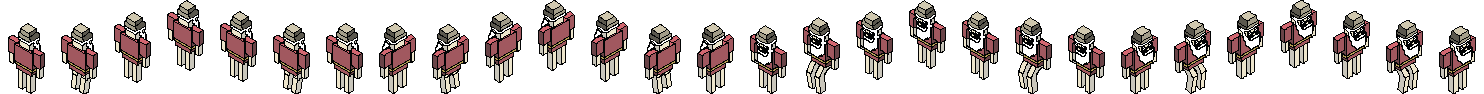
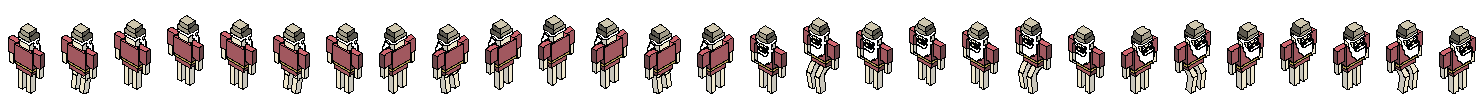
:sparkles: Player animation + new fade out

diff --git a/src/level.js b/src/level.js
@@ -21,13 +21,7 @@ class Level extends Phaser.Scene {
         this.gui = null;
         this.popup = null;
 
-        // Zoom
-        this.zoomState = 0;
-        this.ZKey = null;
-        this.canZoom = true;
-
         // States
-        this.dark = null;
         this.TABKey = null;
         this.RKey = null;
         this.SPACEKey = null;
@@ -61,7 +55,6 @@ class Level extends Phaser.Scene {
         this.gui = new GUI(this, this.map);
         this.gui.update(this.player);
         this.popup = new Popup(this);
-        this.dark = this.add.rectangle(0, 0, this.map.width * 200, this.map.height * 200, 0x000000).setAlpha(0).setDepth(2000);
 
         // Keyboard
         this.cursors = this.input.keyboard.createCursorKeys();
@@ -95,27 +88,28 @@ class Level extends Phaser.Scene {
                 // Edit stats
                 if (this.TABKey.isDown && this.player.block == 0) {
                     this.gui.selected = 0;
-                    this.dark.setDepth(1499);
-                    this.fadeTo([this.dark, this.gui.r1], 0.25, STATES.STATS);
+                    this.cameras.main.fadeOut(350, 100, 100, 100);
+                    this.fadeTo(this.gui.r1, 0.25, STATES.STATS);
                 }
                 else if (Phaser.Input.Keyboard.JustDown(this.RKey) && this.player.canSacrifice()) {
                     this.gui.selected = 0;
-                    this.dark.setDepth(1499);
                     this.sacrifice();
-                    this.fadeTo([this.dark, this.gui.r1], 0.25, STATES.STATS);
+                    this.cameras.main.fadeOut(350, 100, 100, 100);
+                    this.fadeTo(this.gui.r1, 0.25, STATES.STATS);
                 }
-
+                
                 // The player won
                 if (this.player.finishedLevel && this.player.block == 4) {
-                    this.dark.setDepth(2000);
                     this.openPopup();
-                    this.fadeTo(this.dark, 0.25, STATES.WON);
+                    this.cameras.main.fadeOut(350, 100, 100, 100);
+                    this.state = STATES.WON;
                 }
                 
                 // The player lost
                 if (this.player.gameOver && this.player.block == 4) {
                     this.openPopup();
-                    this.fadeTo(this.dark, 0.25, STATES.GAME_OVER);
+                    this.cameras.main.fadeOut(350, 100, 100, 100);
+                    this.state = STATES.GAME_OVER;
                 }
 
                 break;
@@ -123,8 +117,9 @@ class Level extends Phaser.Scene {
             case STATES.STATS:
                 // Go back to MOVE state
                 if (this.TABKey.isDown) {
+                    this.cameras.main.fadeFrom(350, 100, 100, 100);
                     this.fadeTo(
-                        [this.dark, this.gui.r1, this.gui.r2, this.gui.r3],
+                        [this.gui.r1, this.gui.r2, this.gui.r3],
                         0, STATES.MOVE);
                 }
 
@@ -168,7 +163,7 @@ class Level extends Phaser.Scene {
     sacrifice() {
         this.player.reset(this);
         if (this.player.gameOver) {
-            this.fadeTo(this.dark, 0.25, STATES.GAME_OVER);
+            this.fadeTo(this.cameras.main, 0.25, STATES.GAME_OVER);
             this.openPopup();
         }
     }
@@ -202,7 +197,7 @@ class Level extends Phaser.Scene {
                 break;
         }
 
-        var tween = this.tweens.add({
+        this.tweens.add({
             targets: targets,
             props: {
                 y: { value: '-=64', duration: 350, ease: 'Power1' },
@@ -210,4 +205,5 @@ class Level extends Phaser.Scene {
             },
         });
     }
+
 }

diff --git a/src/player.js b/src/player.js
@@ -15,7 +15,8 @@ class Player {
 
     init(x, y, scene) {
         this.pos = [x, y];
-        this.sprite = scene.add.sprite((x - y - 1) * 32, (x + y + 3.5) * 16, 'player', 0);
+        
+        this.sprite = scene.add.sprite((x - y) * 47 - 26, (x + y) * 27 + 48, 'player', 0);
         this.sprite.setOrigin(0, 0);
         this.sprite.depth = 1000;
     }
@@ -26,6 +27,8 @@ class Player {
 
             if (this.nextPos.length && this.block % 2 == 0) {
                 var nP = this.nextPos.pop();
+                console.log(nP);
+                
                 this.sprite.x += nP[1];
                 this.sprite.y += nP[2];
                 this.sprite.setFrame(nP[0]);
@@ -45,21 +48,21 @@ class Player {
         }
 
         // Let's move
-        this.block = 24;
+        this.block = 30;
         this.pos = nPos;
 
         switch (direction) {
             case dir.UP:
-                this.nextPos = [[1, 0, 0], [2, 8, -4], [3, 8, -4], [4, 4, -2], [5, 4, -2], [6, 4, -2], [7, 4, -2], [0, 0, 0]];
+                this.nextPos = [[1, 0, 0], [1, 0, 0], [1, 0, 0], [2, 12, -7], [2, 12, -7], [3, 6, -4], [3, 6, -3], [4, 6, -3], [4, 5, -3], [0, 0, 0]].reverse();
                 break;
             case dir.DOWN:
-                this.nextPos = [[1, 0, 0], [2, -8, 4], [3, -8, 4], [4, -4, 2], [5, -4, 2], [6, -4, 2], [7, -4, 2], [0, 0, 0]];
+                this.nextPos = [[2*7 + 1, 0, 0], [2*7 + 1, 0, 0], [2*7 + 1, 0, 0], [2*7 + 2, -12, 7], [2*7 + 2, -12, 7], [2*7 + 3, -6, 4], [2*7 + 3, -6, 3], [2*7 + 4, -6, 3], [2*7 + 4, -6, 3], [2*7, 0, 0]].reverse();
                 break;
             case dir.LEFT:
-                this.nextPos = [[1, 0, 0], [2, -8, -4], [3, -8, -4], [4, -4, -2], [5, -4, -2], [6, -4, -2], [7, -4, -2], [0, 0, 0]];
+                this.nextPos = [[7 + 1, 0, 0], [7 + 1, 0, 0], [7 + 1, 0, 0], [7 + 2, -12, -7], [7 + 2, -12, -7], [7 + 3, -6, -4], [7 + 3, -6, -3], [7 + 4, -6, -3], [7 + 4, -5, -3], [7 + 0, 0, 0]].reverse();
                 break;
             case dir.RIGHT:
-                this.nextPos = [[1, 0, 0], [2, 8, 4], [3, 8, 4], [4, 4, 2], [5, 4, 2], [6, 4, 2], [7, 4, 2], [0, 0, 0]];
+                this.nextPos = [[3*7 + 1, 0, 0], [3*7 + 1, 0, 0], [3*7 + 1, 0, 0], [3*7 + 2, 12, 7], [3*7 + 2, 12, 7], [3*7 + 3, 6, 4], [3*7 + 3, 6, 3], [3*7 + 4, 6, 3], [3*7 + 4, 5, 3], [3*7 + 0, 0, 0]].reverse();
                 break;
         }
 

diff --git a/src/load.js b/src/load.js
@@ -18,8 +18,8 @@ class Load extends Phaser.Scene {
     preload() {
         console.log("Load");
         this.load.script('webfont', 'https://ajax.googleapis.com/ajax/libs/webfont/1.6.26/webfont.js');
-        this.load.spritesheet('tiles', 'assets/tileset.png', { frameWidth: 64, frameHeight: 64 });
-        this.load.spritesheet('player', 'assets/player.png', { frameWidth: 64, frameHeight: 64 });
+        this.load.spritesheet('tiles', 'assets/tileset.png', { frameWidth: 94, frameHeight: 88 });
+        this.load.spritesheet('player', 'assets/player.png', { frameWidth: 53, frameHeight: 94 });
         for (let i = 1; i <= LEVEL_NUMBER; i++) {
             this.load.json(`map${i}`, `assets/map${i}.json`);
             this.load.image(`lvl${i}`, `assets/lvl${i}.png`);

diff --git a/src/tilemap.js b/src/tilemap.js
@@ -8,9 +8,8 @@ class Tilemap {
 
         console.log(data.properties);
         
-        
-        this.tileWidthHalf = 32;
-        this.tileHeightHalf = 16;
+        this.tileWidthHalf = 47;
+        this.tileHeightHalf = 27;
 
         this.layers = data.layers;
 
@@ -22,9 +21,9 @@ class Tilemap {
 
         for (let i = 0; i < this.layers[0].data.length; i++) {
             var j = Math.floor(i / this.width);
-            if (this.layers[0].data[i] == 4) {
+            if (this.layers[0].data[i] == 6) {
                 this.startingPos = [i % this.width, j];
-            } else if (this.layers[0].data[i] == 5) {
+            } else if (this.layers[0].data[i] == 7) {
                 this.goal = [i % this.width, j];
             }
         }

diff --git a/src/util.js b/src/util.js
@@ -1,4 +1,4 @@
-const groundCOLL = [3];
+const groundCOLL = [5];
 const PENALTY = 2;
 const LEVEL_NUMBER = 1;
 
@@ -15,7 +15,7 @@ function oob(pos, map) {
 
 // True if there is a collision
 function checkCollision(pos, map) {
-    var collGround = groundCOLL.includes(map.layers[0].data[pos[1] * 8 + pos[0]]);
+    var collGround = groundCOLL.includes(map.layers[0].data[pos[1] * map.width + pos[0]]);
 
     return collGround;
 }
